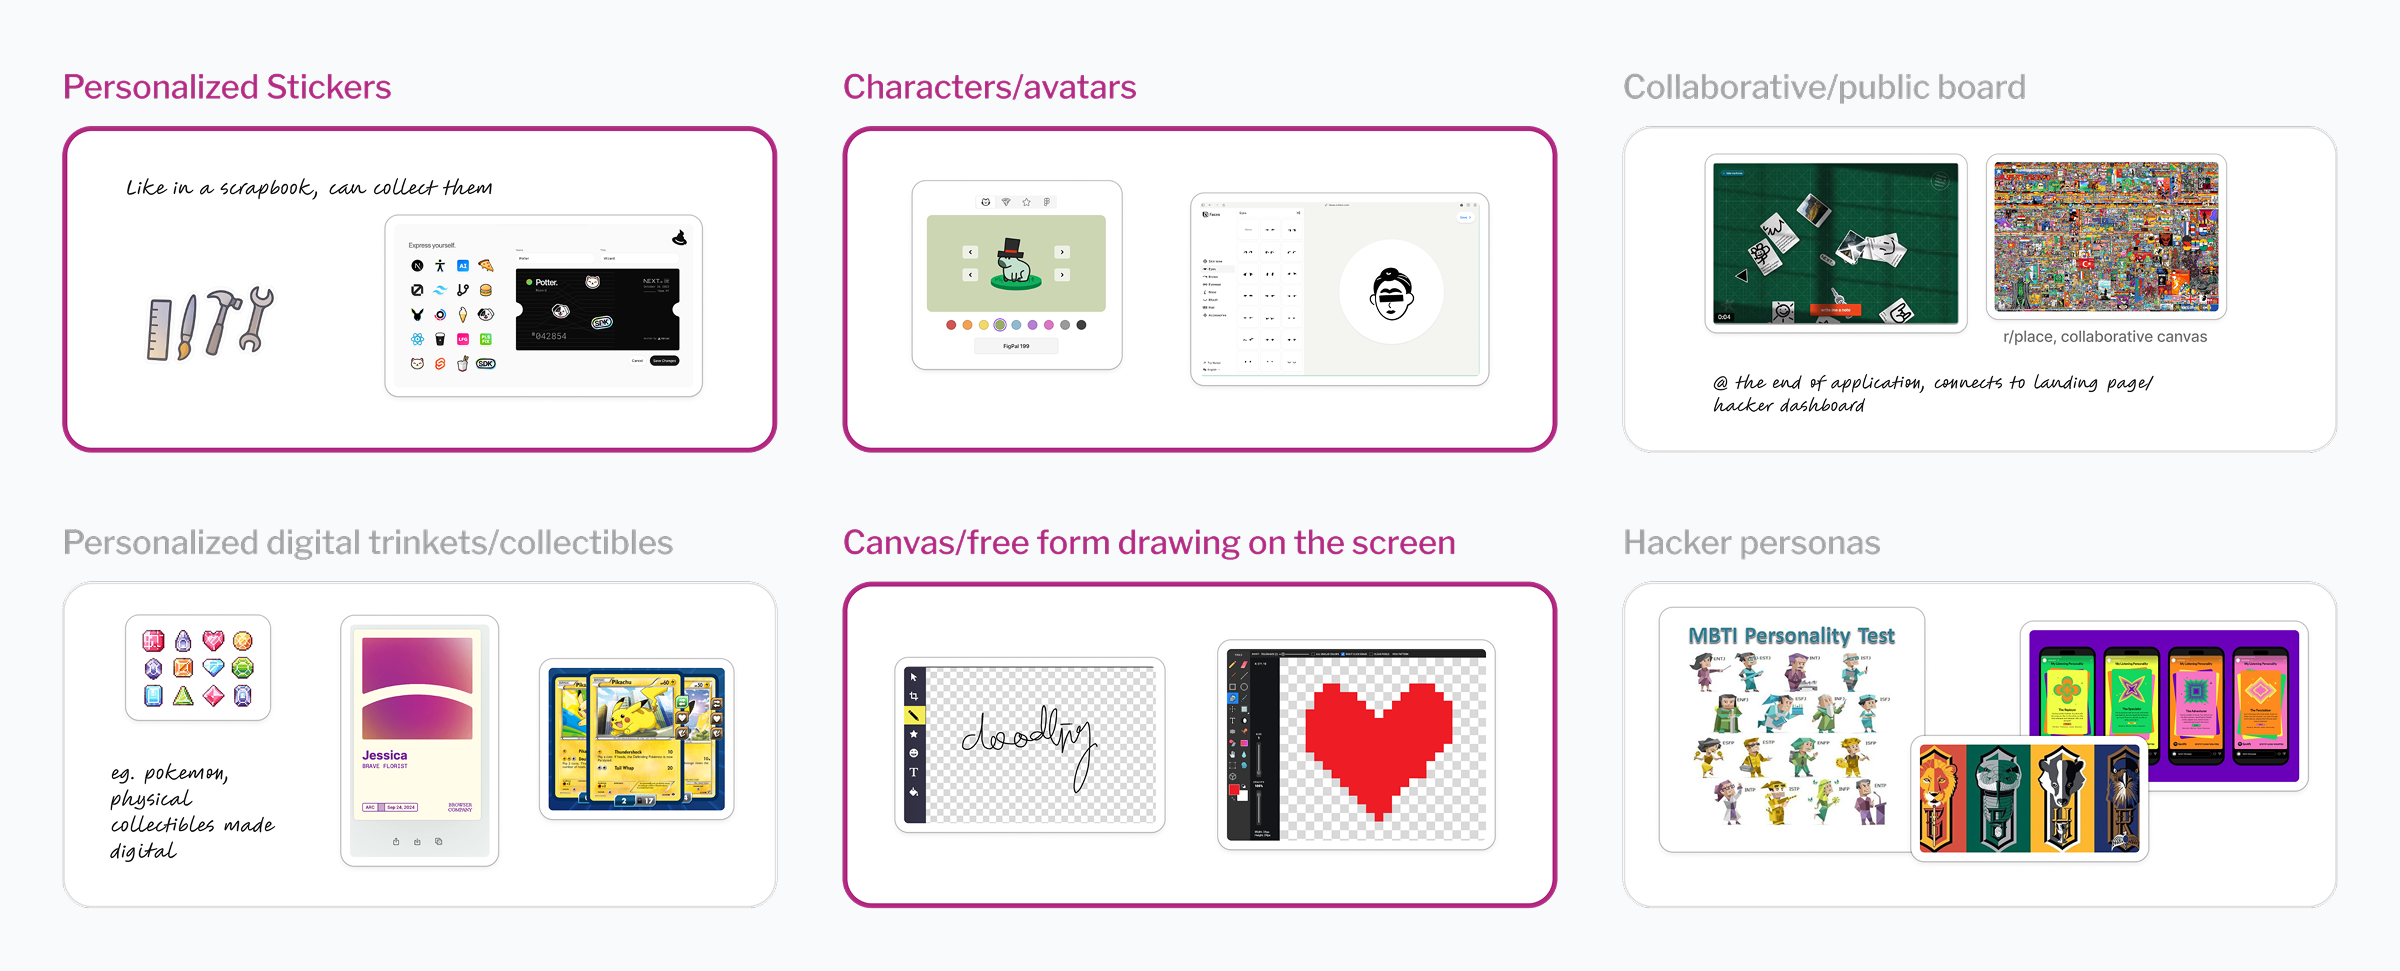
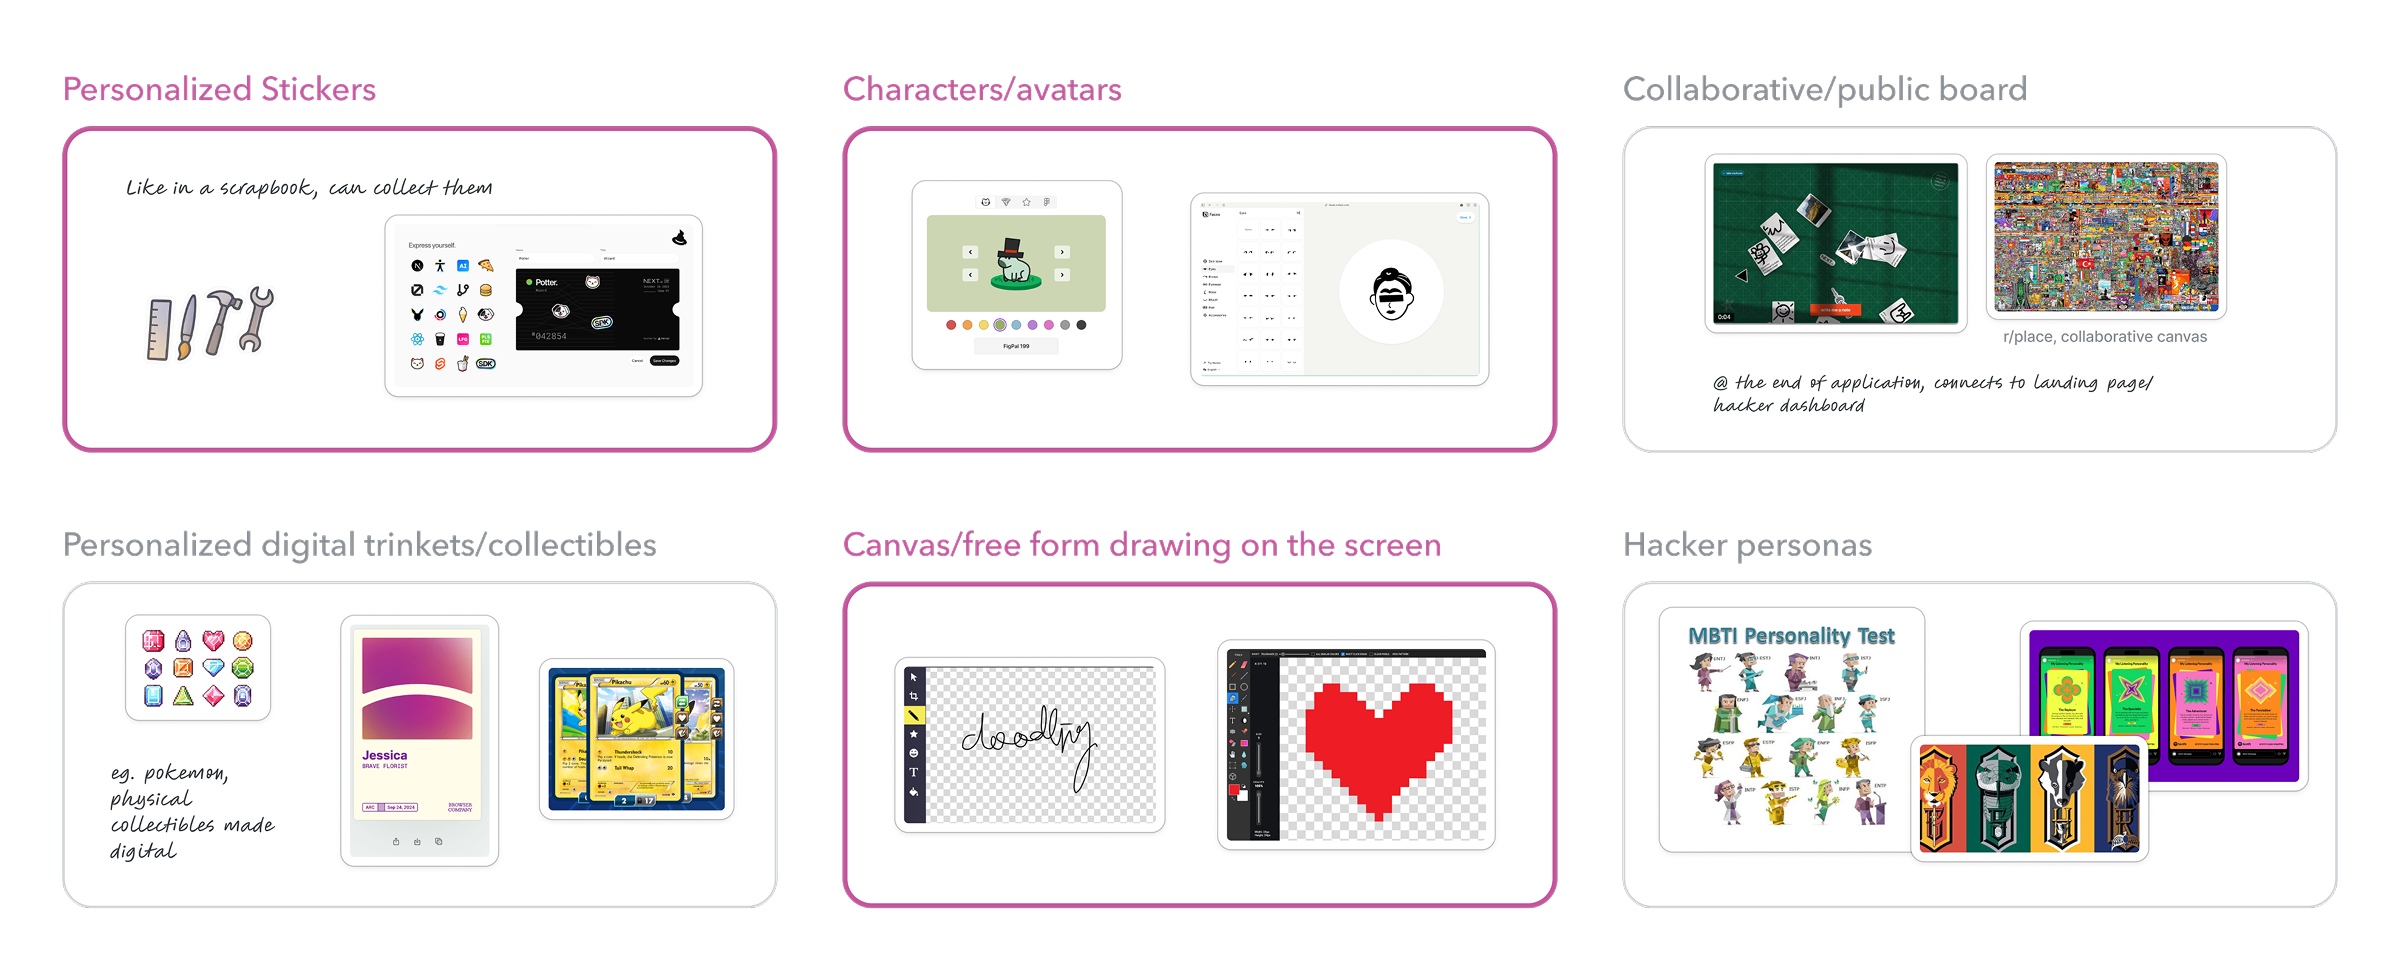
cs/callout: strip background/padding for inline-text treatment
Callout no longer renders a tinted background box (bg-[var(--cs-accent)]/6)
or px-6 py-5 padding — it's now plain inline heading/body text, taking
whatever className the caller passes.

Also on this branch:
- Image captions (ImageBlock, MediaFrame, IterationCarousel) bumped from
  12px to 13px for legibility.
- retrospect.tsx: the "two pieces of feedback" section now uses TwoColumn +
  Callout instead of hand-rolled stacked divs, matching the pattern used
  elsewhere in the case studies.
- retrospect.tsx: the Research section's redundant two-column findings
  (which mostly restated the Inspiration section's trends) are replaced
  with a single flowing paragraph.
- hack-western.tsx: mobile section's image+text TwoColumn collapsed into a
  stacked ImageBlock + body paragraph.

diff --git a/content/case-studies/retrospect.tsx b/content/case-studies/retrospect.tsx
@@ -389,19 +389,8 @@ export default function Retrospect() {
                 />
 
                 <p className="text-base text-neutral-600 leading-normal">
-                    The team's research revealed two key findings about trends in the consumer app space:
+                    The team’s research revealed two key findings about trends in the consumer app space: people want apps that help them connect with friends in a real and relaxed way, and sharing is central to how users engage with niche social apps.
                 </p>
-
-                <TwoColumn
-                    left={
-                        <h2 className="text-balance text-xl font-medium text-neutral-800 leading-[1.2]">1. People want apps that help them connect with friends in a real and relaxed way.</h2>
-
-                    }
-                    right={
-                        <h2 className="text-balance text-xl font-medium text-neutral-800 leading-[1.2]">2. Sharing is central to how users engage with niche social apps.</h2>
-                    }
-                />
-
             </Section>
 
             <Section
@@ -460,19 +449,20 @@ export default function Retrospect() {
                     I recieved two main pieces of feedback from testers:
                 </p>
 
-                <div className="flex flex-col gap-3">
-                    <h2 className="text-balance text-xl font-medium text-neutral-800 leading-[1.2]">Users want to include multiple pieces of any media type — not just photos and songs.</h2>
-                    <p className="text-base text-neutral-600 leading-normal">
-                        I&apos;d designed the option to add several photos, but assumed every other media type could only hold one. Testers immediately caught the gap: &ldquo;Why can I add several photos, but only one voice note?&rdquo;
-                    </p>
-                </div>
-
-                <div className="flex flex-col gap-3">
-                    <h2 className="text-balance text-xl font-medium text-neutral-800 leading-[1.2]">Each media type was also being added and managed differently — one consistent pattern was overdue.</h2>
-                    <p className="text-base text-neutral-600 leading-normal">
-                        I consolidated every media type into the same interface: a carousel. Users could add several items, delete existing ones, and rearrange them — all through one consistent pattern instead of several different ones.
-                    </p>
-                </div>
+                <TwoColumn
+                    left={
+                        <Callout
+                            heading="Users want to include multiple pieces of any media type — not just photos and songs."
+                            body="I'd designed the option to add several photos, but assumed every other media type could only hold one. Testers immediately caught the gap: “Why can I add several photos, but only one voice note?”"
+                        />
+                    }
+                    right={
+                        <Callout
+                            heading="Each media type was also being added and managed differently — one consistent pattern was overdue."
+                            body="I consolidated every media type into the same interface: a carousel. Users could add several items, delete existing ones, and rearrange them — all through one consistent pattern instead of several different ones."
+                        />
+                    }
+                />
 
                 <ImageBlock
                     src="/images/case-studies/retrospect/retrospect-flows-5.png"

diff --git a/content/case-studies/hack-western.tsx b/content/case-studies/hack-western.tsx
@@ -149,25 +149,15 @@ export default function HackWestern() {
         id="designing-for-mobile"
         tag="Designing for Mobile"
         headline="With the web designs established, I needed a creative way to include personalized stickers on mobile, where there wasn't enough space to display them in the background."
+        body="On the desktop version, stickers appear based on a user&rsquo;s answers. For example, selecting Mathematics/Statistics as my major would surface a &ldquo;Math/Stats&rdquo; sticker in the background."
         primary
       >
-        <TwoColumn
-          ratio="3/2"
-          left={
-            <ImageBlock
-              src="/images/case-studies/hack-western/hw-mobile-1.gif"
-              alt="Desktop application form surrounded by unlocked stickers, including a University of Toronto Mississauga badge, a Hack Western Newcomer ribbon, and a Novice Hacker name tag"
-              width={2384}
-              height={1397}
-            />
-          }
-          right={
-            <p className="text-base text-neutral-600">
-              On the desktop version, stickers appear based on a user&rsquo;s answers. For example,
-              selecting Mathematics/Statistics as my major would surface a &ldquo;Math/Stats&rdquo; sticker
-              in the background.
-            </p>
-          }
+        <ImageBlock
+          src="/images/case-studies/hack-western/hw-mobile-1.gif"
+          alt="Desktop application form surrounded by unlocked stickers, including a University of Toronto Mississauga badge, a Hack Western Newcomer ribbon, and a Novice Hacker name tag"
+          width={2384}
+          height={1397}
+          caption="Desktop Sticker Collecting"
         />
         <p className="text-base text-neutral-600">
           Our solution was a sticker drawer: a hidden panel that opened when users tapped a floating

diff --git a/components/cs/IterationCarousel.tsx b/components/cs/IterationCarousel.tsx
@@ -23,7 +23,7 @@ type IterationCarouselProps = {
 const STICKY_RELEASE_BUFFER = 120
 
 // A horizontally-scrolling carousel for comparing several iterations of a
-// design — same caption treatment ImageBlock already uses (italic, text-xs,
+// design — same caption treatment ImageBlock already uses (italic, 13px,
 // neutral-400, sitting above the image), with a prev/next + count folded
 // onto that line instead of a separate tab bar. The images themselves scroll
 // as a real track (drag it directly, or use the arrows), rather than being
@@ -212,14 +212,14 @@ export function IterationCarousel({ items, className }: IterationCarouselProps) 
               caption doesn't shove the arrows/count sideways while it fades
               out under the incoming one. */}
           {reduce ? (
-            <p className="text-xs italic leading-[1.5] text-neutral-400" aria-live="polite">
+            <p className="text-[13px] italic leading-[1.5] text-neutral-400" aria-live="polite">
               {current.caption}
             </p>
           ) : (
             <AnimatePresence mode="popLayout" initial={false}>
               <motion.p
                 key={active}
-                className="text-xs italic leading-[1.5] text-neutral-400"
+                className="text-[13px] italic leading-[1.5] text-neutral-400"
                 aria-live="polite"
                 initial={{ opacity: 0, filter: "blur(2px)" }}
                 animate={{ opacity: 1, filter: "blur(0px)" }}

diff --git a/components/cs/ImageBlock.tsx b/components/cs/ImageBlock.tsx
@@ -9,7 +9,7 @@ export function ImageBlock(props: ImageBlockProps) {
     const { src, alt, width, height, className, caption } = props
     return (
       <div>
-        {caption && <p className="mb-2 text-xs leading-[1.5] text-neutral-400 italic">{caption}</p>}
+        {caption && <p className="mb-2 text-[13px] leading-[1.5] text-neutral-400 italic">{caption}</p>}
         <Image
           src={src}
           alt={alt}
@@ -24,7 +24,7 @@ export function ImageBlock(props: ImageBlockProps) {
   const { height = 240, className, caption } = props
   return (
     <div>
-      {caption && <p className="mb-2 text-xs leading-[1.5] text-neutral-500 italic">{caption}</p>}
+      {caption && <p className="mb-2 text-[13px] leading-[1.5] text-neutral-500 italic">{caption}</p>}
       <div
         className={`w-full rounded-[8px] border border-neutral-100 bg-neutral-100 ${className ?? ""}`}
         style={{ height }}

diff --git a/components/cs/MediaFrame.tsx b/components/cs/MediaFrame.tsx
@@ -17,7 +17,7 @@ type MediaFrameProps = {
 export function MediaFrame({ height, caption, className, children }: MediaFrameProps) {
   return (
     <div>
-      {caption && <p className="mb-2 text-xs leading-[1.5] text-neutral-500 italic">{caption}</p>}
+      {caption && <p className="mb-2 text-[13px] leading-[1.5] text-neutral-500 italic">{caption}</p>}
       <div
         className={`flex w-full items-center justify-center rounded-[8px] border border-neutral-100 bg-neutral-75 ${className ?? ""}`}
         style={{ height }}

diff --git a/components/cs/Callout.tsx b/components/cs/Callout.tsx
@@ -8,7 +8,7 @@ type CalloutProps = {
 
 export function Callout({ label, heading, body, children, className }: CalloutProps) {
   return (
-    <div className={`h-fit rounded-[8px] bg-[var(--cs-accent)]/6 px-6 py-5 ${className ?? ""}`}>
+    <div className={className}>
       <h2 className="text-balance text-xl font-medium text-neutral-800 leading-[1.4]">
         {label && (
           <>
